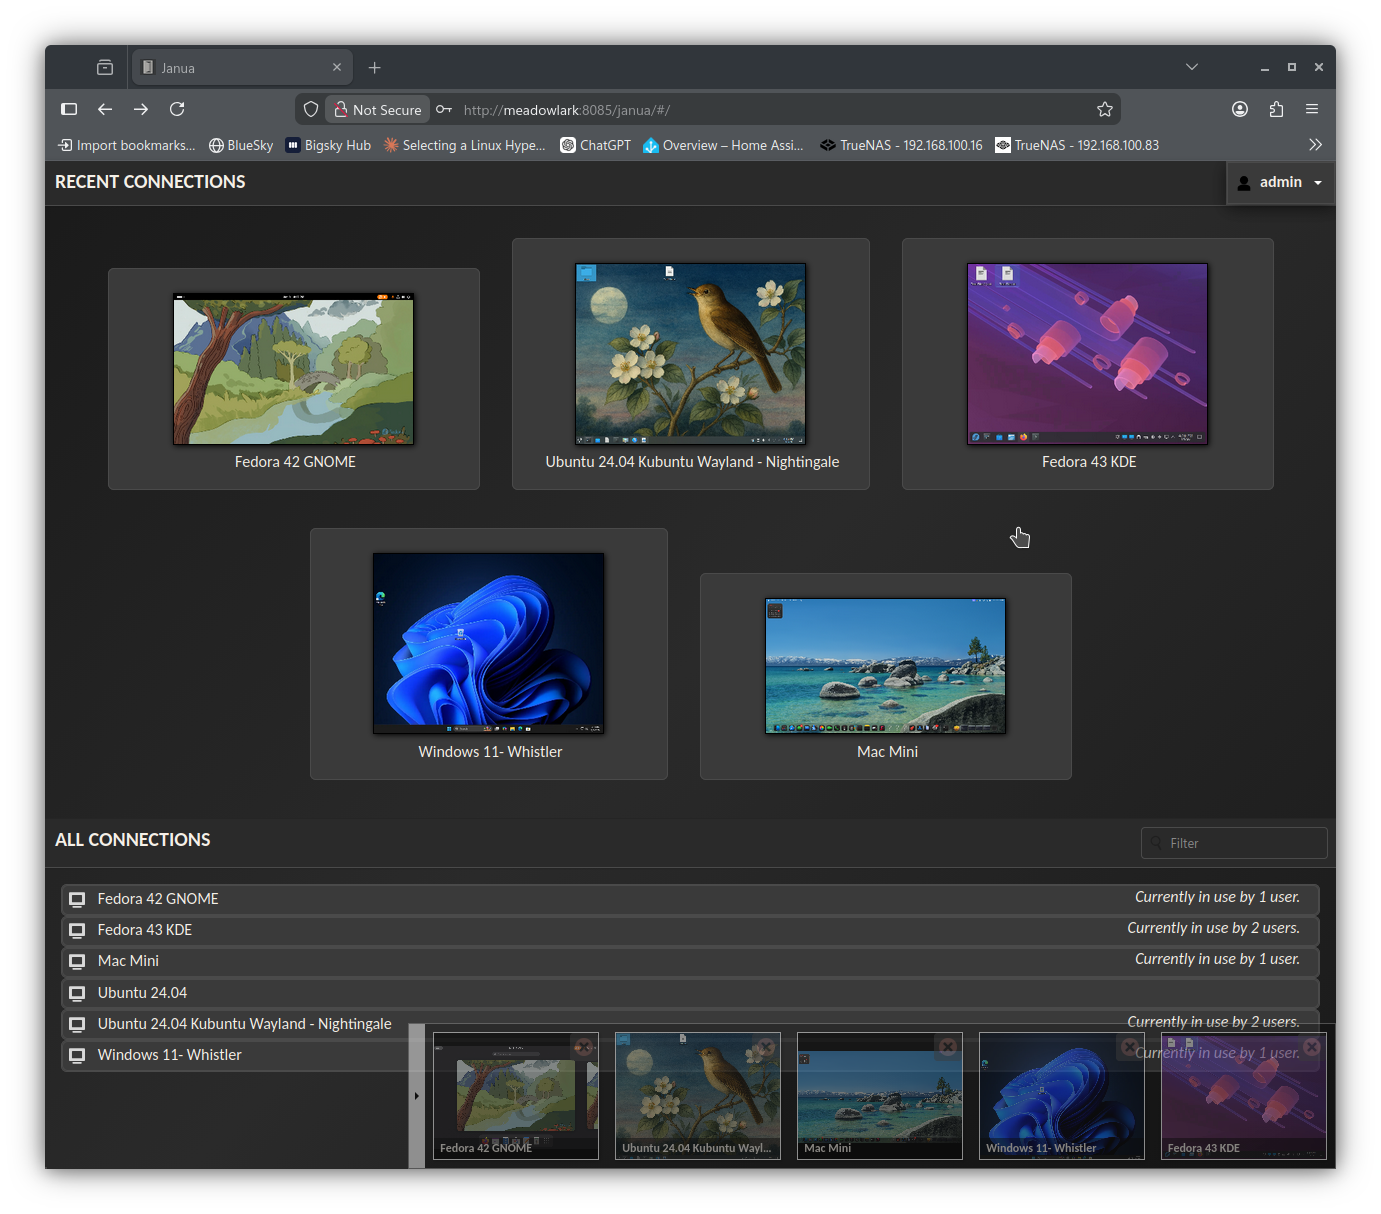
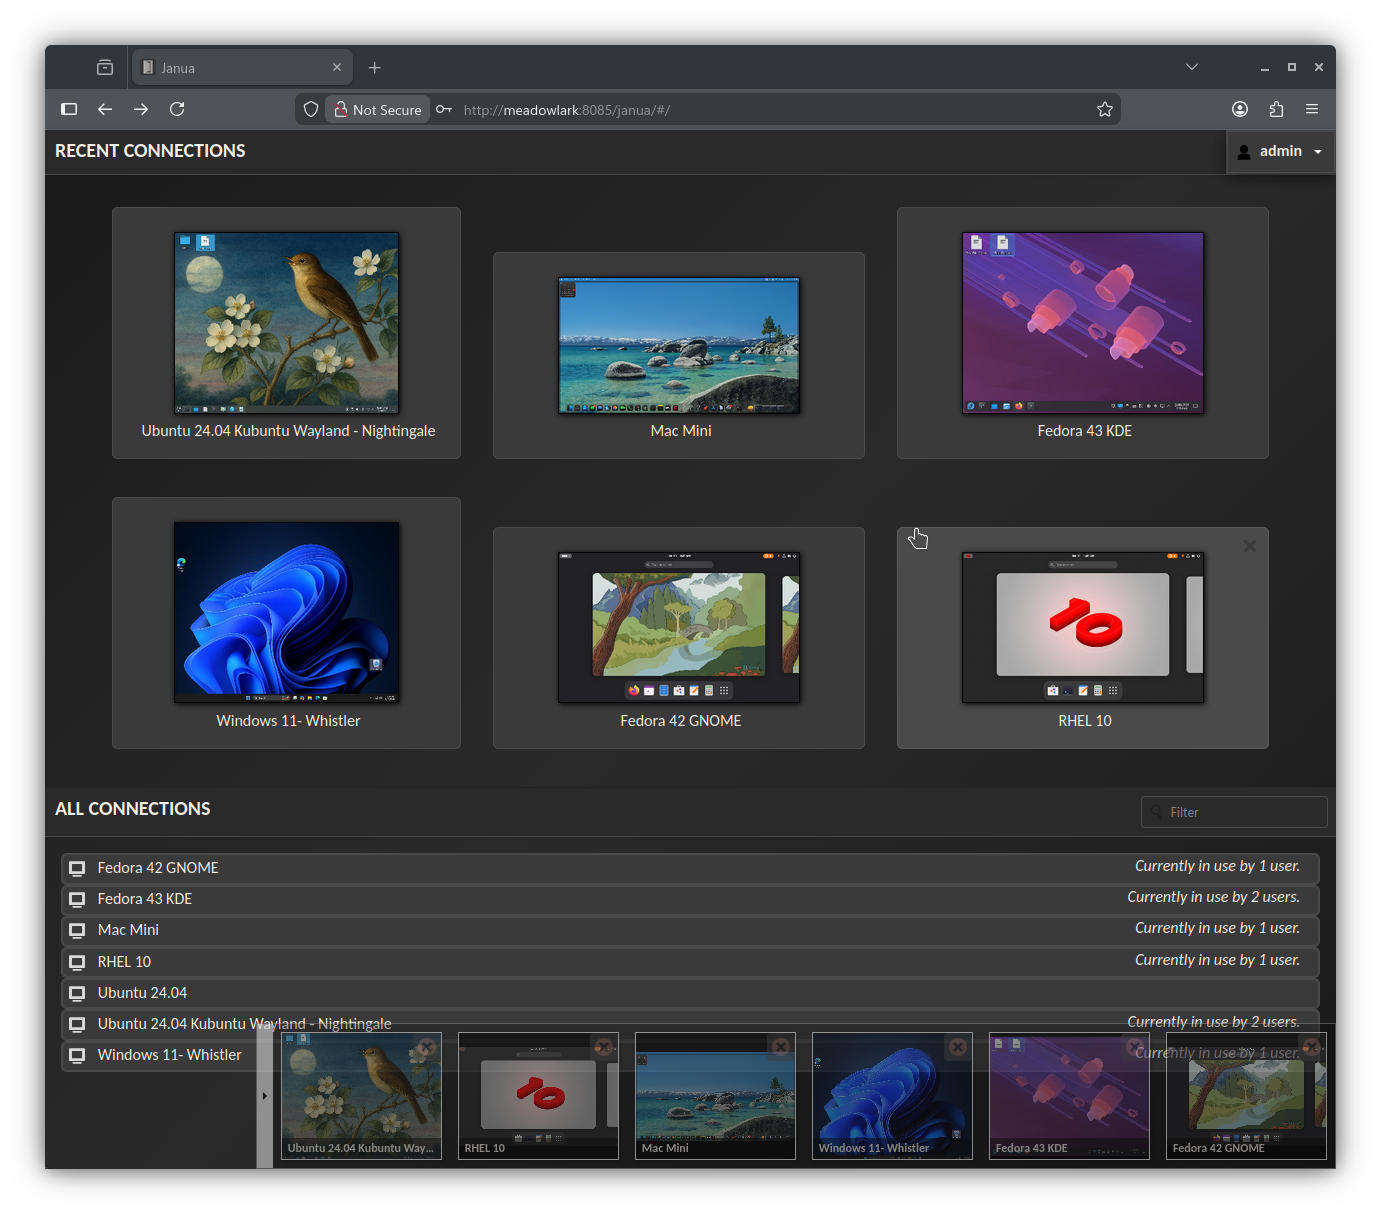
Update screenshot with RHEL 10, add RHEL to compatibility table

diff --git a/docs/index.html b/docs/index.html
@@ -112,6 +112,12 @@
                             <td class="status-no">No</td>
                             <td>VNC protocol</td>
                         </tr>
+                        <tr>
+                            <td>RHEL 10</td>
+                            <td class="status-yes">Yes</td>
+                            <td class="status-yes">Yes</td>
+                            <td>GNOME Remote Desktop</td>
+                        </tr>
                     </tbody>
                 </table>
             </div>

diff --git a/README.md b/README.md
@@ -38,6 +38,7 @@ Janua solves these problems by:
 | xrdp | ✅ | ✅ | Full compatibility |
 | Windows RDP | ✅ | ✅ | Full compatibility |
 | macOS Screen Sharing | ✅ | ❌ | VNC protocol (macOS does not support RDP) |
+| RHEL 10 | ✅ | ✅ | GNOME Remote Desktop |
 
 **Note:** Ubuntu 24.04's GNOME Remote Desktop (GRD 46.3) has a [known PipeWire threading issue](https://gitlab.gnome.org/GNOME/gnome-remote-desktop/-/issues/182) that prevents audio capture. This is fixed in GNOME 48 (Fedora 42, Ubuntu 25.04+).
 
